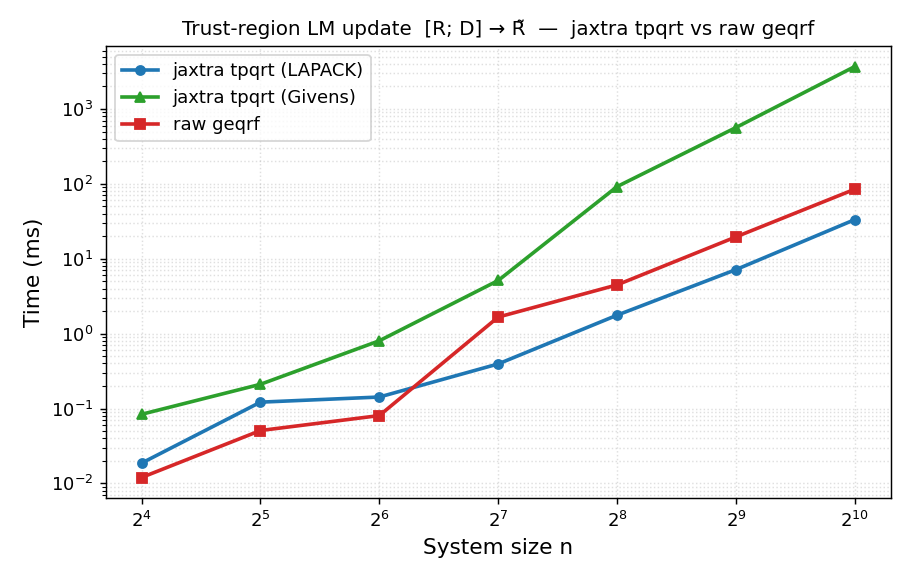
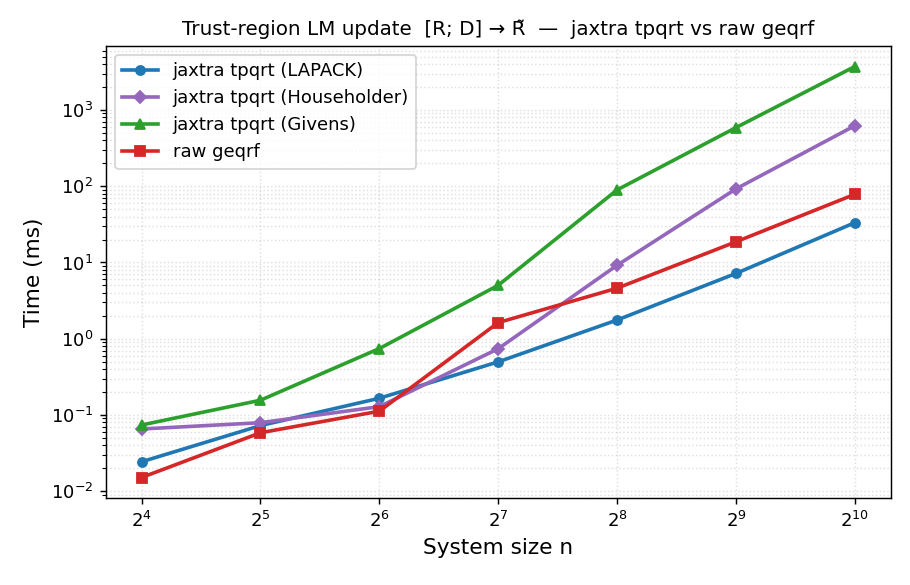
feat: switch tpqrt fallback to Householder; benchmark vs Givens
Replaces the pure-JAX block-Givens fallback with a LAPACK-like Householder
triangularisation as the registered fallback. Column j of the stack [A; B]
has all of its sub-diagonal mass in B (A is upper triangular), so one
reflector mixing the pivot row R[j,:] with the rows of B annihilates b[:, j].
This sweeps n columns in n rank-1 updates — half the sequential steps of the
Givens wavefront (n vs 2n-1) and, crucially, with no gather/scatter on R: only
a single-row dynamic_update_slice per step.

The complex reflector carries the phase of the pivot in the reflected value
(beta = -(alpha/|alpha|)*||x||), which is what makes it zero the tail for
complex inputs (a real-signed beta only works for real alpha).

Benchmark (benchmarks/bench_tpqrt.py) now compares LAPACK, Householder,
Givens and geqrf. Householder is ~6x faster than Givens at n=1024 and beats
raw geqrf for n<=128; being unblocked (BLAS-2) it still trails the blocked
LAPACK path and geqrf at large n. The Givens core is kept for the comparison.

Tests parametrise both fallbacks against the geqrf reference and against the
LAPACK path; the shared pentagonal-structure mask is factored into a helper.

Claude-Session: https://claude.ai/code/session_01Aj8oNz6aLvSocZHjG7B84h

diff --git a/jaxtra/_src/lax/linalg.py b/jaxtra/_src/lax/linalg.py
@@ -637,11 +637,11 @@ def tpqrt(a: ArrayLike, b: ArrayLike, *,
 
   Note:
     On CPU this dispatches to LAPACK ``tpqrt``. On other platforms (or under
-    ``vmap``/``grad`` tracing) it falls back to a pure-JAX block-Givens
-    triangularisation that eliminates ``b`` against ``a`` one anti-diagonal
-    "wavefront" of independent rotations at a time. The Householder sign
-    convention of LAPACK and the Givens fallback differ, so individual rows of
-    ``R`` may differ by a unit-modulus phase; ``Rᴴ R`` is identical.
+    ``vmap``/``grad`` tracing) it falls back to a pure-JAX Householder
+    triangularisation that annihilates ``b`` one column at a time against the
+    triangular ``a`` (``n`` rank-1 updates). The sign/phase convention of the
+    reflectors may differ from LAPACK's, so individual rows of ``R`` may differ
+    by a unit-modulus phase; ``Rᴴ R`` is identical.
   """
   a_arr, b_arr = jnp.asarray(a), jnp.asarray(b)
   m, n = b_arr.shape[-2], b_arr.shape[-1]
@@ -671,6 +671,15 @@ def _tpqrt_shape_rule(a_shape, b_shape, *, l, nb):
   return a_shape
 
 
+def _tpqrt_pentagonal_mask(m, n, l, dtype):
+  """Boolean mask (as ``dtype``) of the pentagonal structure LAPACK tpqrt
+  assumes: the bottom ``l`` rows are upper trapezoidal
+  (``b[m - l + i, j] = 0`` for ``j < i``)."""
+  rows = jnp.arange(m)[:, None]
+  cols = jnp.arange(n)[None, :]
+  return ((rows < (m - l)) | (cols >= rows - (m - l))).astype(dtype)
+
+
 def _tpqrt_givens_2d(a, b, l):
   """Pure-JAX block-Givens triangularisation of ``[a; b]`` (unbatched).
 
@@ -687,14 +696,10 @@ def _tpqrt_givens_2d(a, b, l):
   is_complex = dtypes.issubdtype(dtype, np.complexfloating)
   conj = lax.conj if is_complex else (lambda x: x)
 
-  # Enforce the pentagonal structure that LAPACK tpqrt assumes: the bottom l
-  # rows are upper trapezoidal (b[m - l + i, j] = 0 for j < i). Masking the
+  # Enforce the pentagonal structure that LAPACK tpqrt assumes (masking the
   # structural-zero corner makes this fallback agree with LAPACK regardless of
-  # what the caller stored there.
-  rr = jnp.arange(m)[:, None]
-  cc = jnp.arange(n)[None, :]
-  penta_mask = (rr < (m - l)) | (cc >= rr - (m - l))
-  b = b * penta_mask.astype(dtype)
+  # what the caller stored there).
+  b = b * _tpqrt_pentagonal_mask(m, n, l, dtype)
 
   # Pad R with a dummy trailing row (index n): inactive rotations scatter there
   # harmlessly. Active rotations at a step hit distinct rows, so no conflict.
@@ -737,9 +742,60 @@ def _tpqrt_givens_2d(a, b, l):
   return Rt[:n]
 
 
+def _tpqrt_householder_2d(a, b, l):
+  """Pure-JAX Householder triangularisation of ``[a; b]`` (unbatched).
+
+  The LAPACK-like fallback. Column ``j`` of the stack ``[a; b]`` has all of its
+  sub-diagonal mass in ``b`` (``a`` is already upper triangular), so a single
+  Householder reflector mixing the pivot row ``R[j, :]`` with the ``m`` rows of
+  ``b`` zeros ``b[:, j]``. Sweeping ``j = 0 .. n-1`` triangularises the stack in
+  ``n`` steps, each a dense rank-1 update — no gather/scatter, only a single
+  ``dynamic_update_slice`` for the pivot row.
+  """
+  n = a.shape[-1]
+  m = b.shape[-2]
+  dtype = a.dtype
+  is_complex = dtypes.issubdtype(dtype, np.complexfloating)
+  conj = lax.conj if is_complex else (lambda x: x)
+  real = lax.real if is_complex else (lambda x: x)
+
+  R = jnp.triu(a)
+  B = b * _tpqrt_pentagonal_mask(m, n, l, dtype)
+
+  def body(j, carry):
+    R, B = carry
+    alpha = R[j, j]                       # pivot
+    tail = B[:, j]                        # (m,) column to annihilate
+    xnorm2 = real(jnp.sum(conj(tail) * tail))
+    absalpha2 = real(conj(alpha) * alpha)
+    # Reflected pivot beta = -(alpha/|alpha|) * ||[alpha; tail]||. Carrying the
+    # phase of alpha (sign, for real types) is what makes the reflector zero
+    # the tail for complex inputs, not just real ones.
+    mu = jnp.sqrt(absalpha2 + xnorm2)
+    absalpha = jnp.sqrt(absalpha2)
+    phase = jnp.where(absalpha == 0, jnp.ones_like(alpha),
+                      alpha / absalpha.astype(dtype))
+    beta = -phase * mu.astype(dtype)
+    reflect = xnorm2 > 0                  # tail already zero => nothing to do
+    safe_beta = jnp.where(reflect, beta, jnp.ones_like(beta))
+    safe_den = jnp.where(reflect, alpha - beta, jnp.ones_like(beta))
+    # Reflector H = I - tau v vᴴ with v = [1; tail / (alpha - beta)].
+    tau = jnp.where(reflect, (safe_beta - alpha) / safe_beta,
+                    jnp.zeros_like(alpha))
+    v_tail = jnp.where(reflect, tail / safe_den, jnp.zeros_like(tail))
+    # vᴴ P over the stacked pivot row and B (columns < j are already zero).
+    vHP = R[j, :] + conj(v_tail) @ B
+    R = R.at[j].set(R[j, :] - tau * vHP)
+    B = B - tau * v_tail[:, None] * vHP[None, :]
+    return R, B
+
+  R, B = control_flow.fori_loop(0, n, body, (R, B))
+  return jnp.triu(R)
+
+
 def _tpqrt_lowering(a, b, *, l, nb):
   del nb  # block size only affects the LAPACK path's performance
-  f = partial(_tpqrt_givens_2d, l=l)
+  f = partial(_tpqrt_householder_2d, l=l)
   for _ in range(a.ndim - 2):
     f = jax.vmap(f)
   return f(a, b)

diff --git a/benchmarks/bench_tpqrt.py b/benchmarks/bench_tpqrt.py
@@ -11,8 +11,10 @@ compute R̃ are compared:
 
   jaxtra tpqrt (LAPACK)  : tpqrt(R, D, l=n)  — LAPACK ?tpqrt, exploits both the
                            triangular R and the triangular (diagonal) D
-  jaxtra tpqrt (Givens)  : the pure-JAX block-Givens fallback — sweeps the
-                           m + n - 1 independent anti-diagonal rotation blocks
+  jaxtra tpqrt (Householder) : the pure-JAX fallback — n column reflectors, each
+                           a dense rank-1 update (no gather/scatter)
+  jaxtra tpqrt (Givens)  : the earlier pure-JAX fallback — sweeps the m + n - 1
+                           independent anti-diagonal rotation blocks
   raw geqrf              : jax._src.lax.linalg.geqrf on the dense (2n, n) stack,
                            taking triu of the first n rows (no structure used)
 
@@ -36,7 +38,8 @@ import jax.numpy as jnp
 jax.config.update("jax_enable_x64", True)
 
 from jax._src.lax.linalg import geqrf
-from jaxtra._src.lax.linalg import tpqrt, _tpqrt_givens_2d
+from jaxtra._src.lax.linalg import (
+    tpqrt, _tpqrt_givens_2d, _tpqrt_householder_2d)
 
 RESULTS_DIR = pathlib.Path(__file__).parent / "results"
 RESULTS_DIR.mkdir(exist_ok=True)
@@ -49,6 +52,11 @@ RESULTS_DIR.mkdir(exist_ok=True)
 @functools.lru_cache(maxsize=None)
 def _lapack_fn(n):
     return jax.jit(lambda R, D: tpqrt(R, D, l=n))
+
+
+@functools.lru_cache(maxsize=None)
+def _householder_fn(n):
+    return jax.jit(lambda R, D: _tpqrt_householder_2d(R, D, n))
 
 
 @functools.lru_cache(maxsize=None)
@@ -105,9 +113,10 @@ N_WARMUP = 3
 N_REPEAT = 10
 
 METHODS = [
-    ("jaxtra tpqrt (LAPACK)", "#1f77b4", "o"),
-    ("jaxtra tpqrt (Givens)", "#2ca02c", "^"),
-    ("raw geqrf",             "#d62728", "s"),
+    ("jaxtra tpqrt (LAPACK)",      "#1f77b4", "o"),
+    ("jaxtra tpqrt (Householder)", "#9467bd", "D"),
+    ("jaxtra tpqrt (Givens)",      "#2ca02c", "^"),
+    ("raw geqrf",                  "#d62728", "s"),
 ]
 
 # ---------------------------------------------------------------------------
@@ -116,33 +125,40 @@ METHODS = [
 
 records = []
 
-print(f"\n{'n':>6}  {'tpqrt LAPACK (ms)':>18}  {'tpqrt Givens (ms)':>18}  "
-      f"{'geqrf (ms)':>12}  {'LAPACK/geqrf':>13}  {'Givens/geqrf':>13}")
-print("-" * 92)
+print(f"\n{'n':>6}  {'LAPACK (ms)':>12}  {'Householder (ms)':>17}  "
+      f"{'Givens (ms)':>12}  {'geqrf (ms)':>12}  "
+      f"{'LAPACK/geqrf':>13}  {'HH/geqrf':>9}  {'Giv/geqrf':>10}")
+print("-" * 110)
 
 for n in SIZES:
     R, D = make_problem(n)
 
     f_lapack = _lapack_fn(n)
+    f_house = _householder_fn(n)
     f_givens = _givens_fn(n)
     f_geqrf = _geqrf_fn(n)
 
-    # Sanity check: all three agree (sign/phase-invariant via the Gram matrix).
+    # Sanity check: all agree (sign/phase-invariant via the Gram matrix).
     g = lambda M: M.conj().T @ M
     ref = g(f_geqrf(R, D))
     assert float(jnp.max(jnp.abs(g(f_lapack(R, D)) - ref))) < 1e-7
+    assert float(jnp.max(jnp.abs(g(f_house(R, D)) - ref))) < 1e-7
     assert float(jnp.max(jnp.abs(g(f_givens(R, D)) - ref))) < 1e-7
 
     t_lapack = time_jax_fn(f_lapack, R, D, n_warmup=N_WARMUP, n_repeat=N_REPEAT)
+    t_house = time_jax_fn(f_house, R, D, n_warmup=N_WARMUP, n_repeat=N_REPEAT)
     t_givens = time_jax_fn(f_givens, R, D, n_warmup=N_WARMUP, n_repeat=N_REPEAT)
     t_geqrf = time_jax_fn(f_geqrf, R, D, n_warmup=N_WARMUP, n_repeat=N_REPEAT)
 
-    records.append({"n": n, "method": "jaxtra tpqrt (LAPACK)", "time_ms": t_lapack * 1e3})
-    records.append({"n": n, "method": "jaxtra tpqrt (Givens)", "time_ms": t_givens * 1e3})
-    records.append({"n": n, "method": "raw geqrf",             "time_ms": t_geqrf * 1e3})
+    records.append({"n": n, "method": "jaxtra tpqrt (LAPACK)",      "time_ms": t_lapack * 1e3})
+    records.append({"n": n, "method": "jaxtra tpqrt (Householder)", "time_ms": t_house * 1e3})
+    records.append({"n": n, "method": "jaxtra tpqrt (Givens)",      "time_ms": t_givens * 1e3})
+    records.append({"n": n, "method": "raw geqrf",                  "time_ms": t_geqrf * 1e3})
 
-    print(f"{n:>6d}  {t_lapack*1e3:18.3f}  {t_givens*1e3:18.3f}  "
-          f"{t_geqrf*1e3:12.3f}  {t_lapack/t_geqrf:12.2f}x  {t_givens/t_geqrf:12.2f}x")
+    print(f"{n:>6d}  {t_lapack*1e3:12.3f}  {t_house*1e3:17.3f}  "
+          f"{t_givens*1e3:12.3f}  {t_geqrf*1e3:12.3f}  "
+          f"{t_lapack/t_geqrf:12.2f}x  {t_house/t_geqrf:8.2f}x  "
+          f"{t_givens/t_geqrf:9.2f}x")
 
 # ---------------------------------------------------------------------------
 # Write CSV

diff --git a/tests/test_tpqrt.py b/tests/test_tpqrt.py
@@ -12,7 +12,8 @@ import jax.numpy as jnp
 jax.config.update("jax_enable_x64", True)
 
 from jax._src.lax.linalg import geqrf
-from jaxtra._src.lax.linalg import tpqrt, _tpqrt_givens_2d
+from jaxtra._src.lax.linalg import (
+    tpqrt, _tpqrt_givens_2d, _tpqrt_householder_2d)
 
 RNG = np.random.default_rng(42)
 
@@ -83,9 +84,11 @@ def test_tpqrt_lapack(m, n, l, dtype):
 
 @pytest.mark.parametrize("dtype", all_dtypes)
 @pytest.mark.parametrize("m,n,l", TPQRT_CASES)
-def test_tpqrt_givens_fallback(m, n, l, dtype):
+@pytest.mark.parametrize("fallback", [_tpqrt_householder_2d, _tpqrt_givens_2d],
+                         ids=["householder", "givens"])
+def test_tpqrt_fallback(fallback, m, n, l, dtype):
     a, b = make_pentagonal(m, n, l, dtype)
-    R = _tpqrt_givens_2d(a, b, l)
+    R = fallback(a, b, l)
     expected = reference_R(a, b)
     tol = tol_for(dtype)
     np.testing.assert_allclose(gram(R), gram(expected), rtol=tol, atol=tol)
@@ -132,7 +135,7 @@ def test_tpqrt_batched(dtype):
 
 @pytest.mark.parametrize("dtype", all_dtypes)
 def test_tpqrt_vmap(dtype):
-    batch, n, m, l = 3, 6, 6, 6
+    batch, n, l = 3, 6, 6
     a = jnp.triu(jnp.asarray(rand((batch, n, n), dtype)))
     b = jax.vmap(jnp.diag)(jnp.asarray(rand((batch, n), dtype)))
 
@@ -145,14 +148,16 @@ def test_tpqrt_vmap(dtype):
 
 
 @pytest.mark.parametrize("dtype", all_dtypes)
-def test_tpqrt_lapack_matches_givens(dtype):
-    """The CPU LAPACK path and the pure-JAX fallback agree (Gram-invariant)."""
+@pytest.mark.parametrize("fallback", [_tpqrt_householder_2d, _tpqrt_givens_2d],
+                         ids=["householder", "givens"])
+def test_tpqrt_lapack_matches_fallback(fallback, dtype):
+    """The CPU LAPACK path and each pure-JAX fallback agree (Gram-invariant)."""
     m, n, l = 9, 6, 4
     a, b = make_pentagonal(m, n, l, dtype)
     R_lapack = tpqrt(a, b, l=l)
-    R_givens = _tpqrt_givens_2d(a, b, l)
+    R_fallback = fallback(a, b, l)
     tol = tol_for(dtype)
-    np.testing.assert_allclose(gram(R_lapack), gram(R_givens),
+    np.testing.assert_allclose(gram(R_lapack), gram(R_fallback),
                                rtol=tol, atol=tol)
 
 
